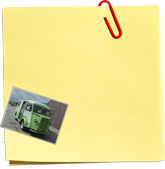
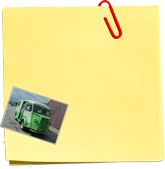
Optimized pictures

diff --git a/db/seeds.rb b/db/seeds.rb
@@ -22,9 +22,9 @@ Project.create(:name => '3941 RR 87 (Vleesbus)',
   rest is het samenbouwen en spuiten in de gewenste kleur.</p>',
   :details => '<p>Deze bus heeft een schuifdeur aan de linkerkant en een klep aan
   de rechterkant.</p>',
-  :image1 => 'projects/companies/2_vleesbus/vleesbus_1.jpg',
-  :image2 => 'projects/companies/2_vleesbus/vleesbus_2.jpg',
-  :image3 => 'projects/companies/2_vleesbus/vleesbus_3.jpg',
+  :image1 => 'projects/companies/2_vleesbus/vleesbus_1.png',
+  :image2 => 'projects/companies/2_vleesbus/vleesbus_2.png',
+  :image3 => 'projects/companies/2_vleesbus/vleesbus_3.png',
   :category => 'companies')
 
 # Blijdorp
@@ -39,9 +39,9 @@ Project.create(:name => 'ZN-61-42 (Blijdorp)',
   en de wagen van binnen gedeeltelijk ingericht.</p>',
   :details => '<p>Deze wagen is oorspronkelijk geassembleerd in Amsterdam. Dit is de
   eerste wagen die we voorzien hebben van een klep aan de zijkant.</p>',
-  :image1 => 'projects/companies/15_blijdorp/blijdorp_1.jpg',
-  :image2 => 'projects/companies/15_blijdorp/blijdorp_2.jpg',
-  :image3 => 'projects/companies/15_blijdorp/blijdorp_3.jpg',
+  :image1 => 'projects/companies/15_blijdorp/blijdorp_1.png',
+  :image2 => 'projects/companies/15_blijdorp/blijdorp_2.png',
+  :image3 => 'projects/companies/15_blijdorp/blijdorp_3.png',
   :category => 'companies')
 
 # Meetbus
@@ -56,9 +56,9 @@ Project.create(:name => 'KG-93-FP (Meetbus)',
   :details => '<p>Dit is de oude bus van de fotograaf Aarsman, die met deze HY in de
   jaren \'80 heel Nederland heeft doorgereden en overal fotos gemaakt heeft voor zijn
   boek "Hollandse Taferelen".</p>',
-  :image1 => 'projects/companies/16_meetbus/meetbus_1.jpg',
-  :image2 => 'projects/companies/16_meetbus/meetbus_2.jpg',
-  :image3 => 'projects/companies/16_meetbus/meetbus_3.jpg',
+  :image1 => 'projects/companies/16_meetbus/meetbus_1.png',
+  :image2 => 'projects/companies/16_meetbus/meetbus_2.png',
+  :image3 => 'projects/companies/16_meetbus/meetbus_3.png',
   :category => 'companies')
 
 # Crepe bus
@@ -74,9 +74,9 @@ Project.create(:name => '69-VB-28 (Souvenirs de France, Breda)',
   :details => '<p>Deze bus heeft oorspronkelijk dienst gedaan bij het
   waterleidingbedrijf "Midden Holland". Tot aan 1 Januari 2011, stond een soortgelijke
   auto ge&euml;xposeerd in het waterleiding-museum in Utrecht.</p>',
-  :image1 => 'projects/companies/19_crepe/crepe_1.jpg',
-  :image2 => 'projects/companies/19_crepe/crepe_2.jpg',
-  :image3 => 'projects/companies/19_crepe/crepe_3.jpg',
+  :image1 => 'projects/companies/19_crepe/crepe_1.png',
+  :image2 => 'projects/companies/19_crepe/crepe_2.png',
+  :image3 => 'projects/companies/19_crepe/crepe_3.png',
   :category => 'companies')
 
 # Manna
@@ -91,9 +91,9 @@ Project.create(:name => 'WI MM 701 (Manna)',
   Na vele jaren trouwe dienst, waren de motor en de versnellingsbak op. Wij hebben een
   nieuwe motor en versnellingsbak geleverd.</p>',
   :details => '<p>Dit is een dubbel verlengde HY.</p>',
-  :image1 => 'projects/companies/26_manna/manna_1.jpg',
-  :image2 => 'projects/companies/26_manna/manna_2.jpg',
-  :image3 => 'projects/companies/26_manna/manna_3.jpg',
+  :image1 => 'projects/companies/26_manna/manna_1.png',
+  :image2 => 'projects/companies/26_manna/manna_2.png',
+  :image3 => 'projects/companies/26_manna/manna_3.png',
   :category => 'companies')
 
 # Remia
@@ -111,9 +111,9 @@ Project.create(:name => 'BE-51-17 (remia)',
   professionele standbouwer op maat gemaakt</p>',
   :details => '<p>Het reclamebord op het dak is speciaal voor deze bus gemaakt.
   De teksten op de bus zijn met de hand geschilderd.</p>',
-  :image1 => 'projects/companies/remia/remia_1.jpg',
-  :image2 => 'projects/companies/remia/remia_2.jpg',
-  :image3 => 'projects/companies/remia/remia_3.jpg',
+  :image1 => 'projects/companies/remia/remia_1.png',
+  :image2 => 'projects/companies/remia/remia_2.png',
+  :image3 => 'projects/companies/remia/remia_3.png',
   :category => 'companies')
 
 # <!--- Consumers --->
@@ -131,9 +131,9 @@ Project.create(:name => '92-TT-78 (Camphy)',
   tot een totaal gereviseerde HY.</p>',
   :details => '<p>Dit is mijn eigen camper en het eerste project van <b id="company_name">
   HY\'s mooi.</b></p>',
-  :image1 => 'projects/consumers/1_camphy/camphy_1.jpg',
-  :image2 => 'projects/consumers/1_camphy/camphy_2.jpg',
-  :image3 => 'projects/consumers/1_camphy/camphy_3.jpg',
+  :image1 => 'projects/consumers/1_camphy/camphy_1.png',
+  :image2 => 'projects/consumers/1_camphy/camphy_2.png',
+  :image3 => 'projects/consumers/1_camphy/camphy_3.png',
   :category => 'consumers')
 
 # Cabinedak
@@ -145,9 +145,9 @@ Project.create(:name => '29-AB-85 (Cabine-dak)',
   :worked_on => '<p>Deze HY had boven de cabine een camper slaap cabine gemonteerd. Wij
   hebben deze verwijderd en een nieuw origineel cabine-dak geplaatst.</p>',
   :details => '<p>Aan deze HY is van achteren een bagage-bak aangebouwd.</p>',
-  :image1 => 'projects/consumers/3_cabinedak/cabinedak_1.jpg',
-  :image2 => 'projects/consumers/3_cabinedak/cabinedak_2.jpg',
-  :image3 => 'projects/consumers/3_cabinedak/cabinedak_3.jpg',
+  :image1 => 'projects/consumers/3_cabinedak/cabinedak_1.png',
+  :image2 => 'projects/consumers/3_cabinedak/cabinedak_2.png',
+  :image3 => 'projects/consumers/3_cabinedak/cabinedak_3.png',
   :category => 'consumers')
 
 # Neusplaten
@@ -160,9 +160,9 @@ Project.create(:name => '08-UB-71 (Neusplaten)',
   achter de koplampen. We hebben nieuwe metalen neusplaten gemonteerd.</p>',
   :details => '<p>De neusplaten zijn een van de weinige plaatwerkdelen die nog in metaal
   worden gemaakt, de pasvorm valt echter tegen.</p>',
-  :image1 => 'projects/consumers/5_neusplaten/neusplaten_1.jpg',
-  :image2 => 'projects/consumers/5_neusplaten/neusplaten_2.jpg',
-  :image3 => 'projects/consumers/5_neusplaten/neusplaten_3.jpg',
+  :image1 => 'projects/consumers/5_neusplaten/neusplaten_1.png',
+  :image2 => 'projects/consumers/5_neusplaten/neusplaten_2.png',
+  :image3 => 'projects/consumers/5_neusplaten/neusplaten_3.png',
   :category => 'consumers')
 
 # Politiebus
@@ -176,9 +176,9 @@ Project.create(:name => '37-VB-09 (Politiebus)',
   niet kan rijden, omdat zaken als accu, motorolie, koel- en remolie zijn verwijderd.</p>',
   :details => '<p>Enkele gebruiksporen, zoals een kleine deuk in het spatbord, zijn vanuit
   historisch oogpunt niet gerepareerd.</p>',
-  :image1 => 'projects/consumers/9_politie/politiebus_1.jpg',
-  :image2 => 'projects/consumers/9_politie/politiebus_2.jpg',
-  :image3 => 'projects/consumers/9_politie/politiebus_3.jpg',
+  :image1 => 'projects/consumers/9_politie/politiebus_1.png',
+  :image2 => 'projects/consumers/9_politie/politiebus_2.png',
+  :image3 => 'projects/consumers/9_politie/politiebus_3.png',
   :category => 'consumers')
 
 # Type H
@@ -193,9 +193,9 @@ Project.create(:name => '346 FB 09 (Type H)',
   :details => '<p>Deze wagen uit 1954 heeft nog een spijltje in de voorruit. De vorige
   eigenaar heeft de bus aan de achterzijde laten verlengen. Bij de restauratie hebben
   wij deze verlenging weer weggenomen.</p>',
-  :image1 => 'projects/consumers/10_type_h/type_h_1.jpg',
-  :image2 => 'projects/consumers/10_type_h/type_h_2.jpg',
-  :image3 => 'projects/consumers/10_type_h/type_h_3.jpg',
+  :image1 => 'projects/consumers/10_type_h/type_h_1.png',
+  :image2 => 'projects/consumers/10_type_h/type_h_2.png',
+  :image3 => 'projects/consumers/10_type_h/type_h_3.png',
   :category => 'consumers')
 
 # Brandweer
@@ -209,9 +209,9 @@ Project.create(:name => 'DR-72-04 (Brandweer)',
   <b id="company_name">HY\'s mooi.</b> heeft hij deze werkzaamheden in onze werkplaats
   uitgevoerd.</p>',
   :details => '<p>Een goed voorbeeld van een geslaagd "doe-het-zelf" project.</p>',
-  :image1 => 'projects/consumers/21_brandweer/brandweer_1.jpg',
-  :image2 => 'projects/consumers/21_brandweer/brandweer_2.jpg',
-  :image3 => 'projects/consumers/21_brandweer/brandweer_3.jpg',
+  :image1 => 'projects/consumers/21_brandweer/brandweer_1.png',
+  :image2 => 'projects/consumers/21_brandweer/brandweer_2.png',
+  :image3 => 'projects/consumers/21_brandweer/brandweer_3.png',
   :category => 'consumers')
 
 # <!--- For Sale --->
@@ -225,9 +225,9 @@ Project.create(:name => '8588 QQ 63 (Pick-up)',
   :worked_on => '<p>Geen. Dit is een originele wagen van de eerste eigenaar. We zoeken
   een liefhebber die op zoek is naar zo\'n originele pick-up.</p>',
   :details => '<p>Inclusief huif. Staat nog op Frans kenteken.</p>',
-  :image1 => 'projects/for_sale/18_pick_up/pick_up_1.jpg',
-  :image2 => 'projects/for_sale/18_pick_up/pick_up_2.jpg',
-  :image3 => 'projects/for_sale/18_pick_up/pick_up_3.jpg',
+  :image1 => 'projects/for_sale/18_pick_up/pick_up_1.png',
+  :image2 => 'projects/for_sale/18_pick_up/pick_up_2.png',
+  :image3 => 'projects/for_sale/18_pick_up/pick_up_3.png',
   :category => 'for_sale')
 
 # Paardenwagen 2
@@ -241,9 +241,9 @@ Project.create(:name => '4932 QT 63 (Paardenwagen 2)',
   gedeelte, bleken de bodemplaten en kokerbalken zo slecht dat we ze los hebben geslepen
   van de cabine en opnieuw laten maken.</p>',
   :details => '<p>Op dit moment hebben we dus een losse cabine in de werkplaats staan.</p>',
-  :image1 => 'projects/for_sale/22_paardenwagen_2/paardenwagen_1.jpg',
-  :image2 => 'projects/for_sale/22_paardenwagen_2/paardenwagen_2.jpg',
-  :image3 => 'projects/for_sale/22_paardenwagen_2/paardenwagen_3.jpg',
+  :image1 => 'projects/for_sale/22_paardenwagen_2/paardenwagen_1.png',
+  :image2 => 'projects/for_sale/22_paardenwagen_2/paardenwagen_2.png',
+  :image3 => 'projects/for_sale/22_paardenwagen_2/paardenwagen_3.png',
   :category => 'for_sale')
 
 # Diesel
@@ -258,7 +258,7 @@ Project.create(:name => '8642 VL 02 (Diesel)',
   :details => '<p>Bij het invoeren van deze wagen uit Belgi&euml;, kon de RDW het chassis-nummer
   slecht lezen. Ze hebben vervolgens het chassis-nummer opnieuw ingeslagen, alleen hebben
   ze daarbij het cijfer "2" van "IN2" bij het chassis-nummer getrokken.</p>',
-  :image1 => 'projects/for_sale/27_diesel/diesel_1.jpg',
-  :image2 => 'projects/for_sale/27_diesel/diesel_2.jpg',
-  :image3 => 'projects/for_sale/27_diesel/diesel_3.jpg',
+  :image1 => 'projects/for_sale/27_diesel/diesel_1.png',
+  :image2 => 'projects/for_sale/27_diesel/diesel_2.png',
+  :image3 => 'projects/for_sale/27_diesel/diesel_3.png',
   :category => 'for_sale')
